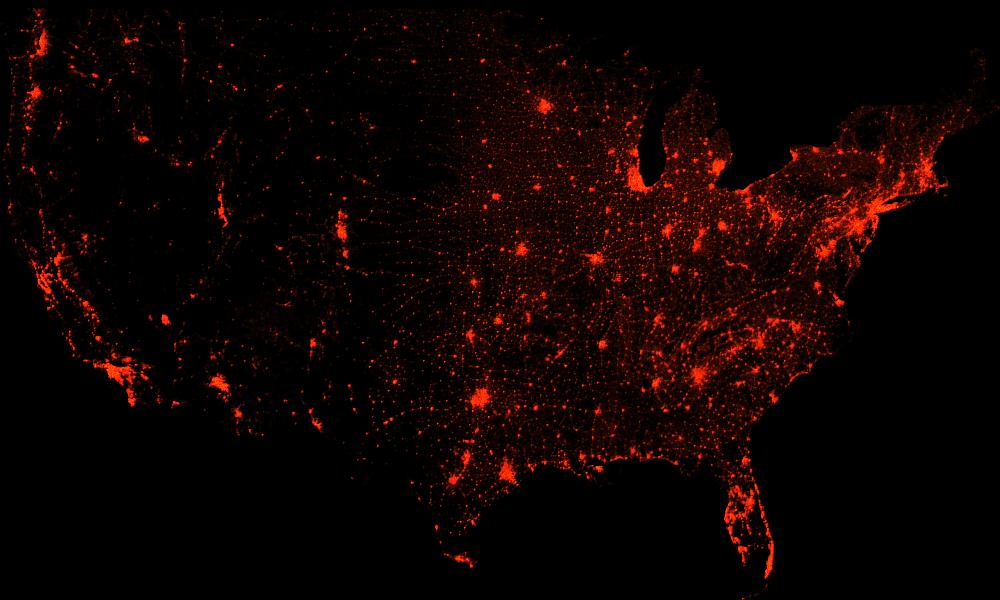
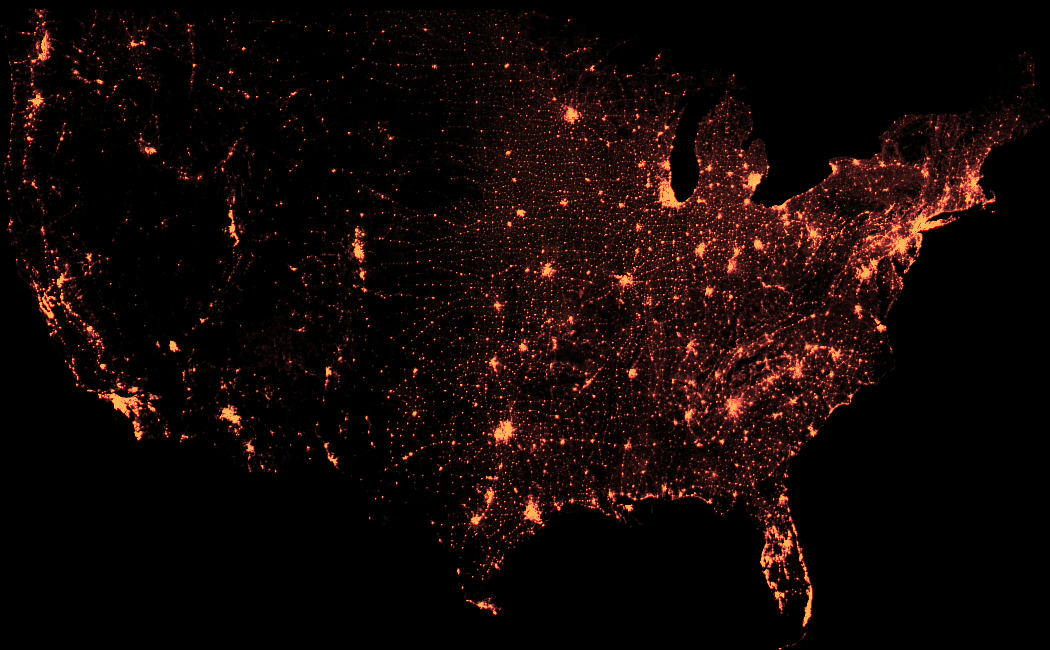
feat: added padding parameter; additional work

diff --git a/pkg/grid/cells.go b/pkg/grid/cells.go
@@ -1,6 +1,7 @@
 package grid
 
 import (
+	"fmt"
 	"math"
 	"sync"
 	"sync/atomic"
@@ -74,12 +75,12 @@ func (c *CellArray[T]) Condense(hasher Hasher, reducer Coalescer[T]) {
 	wg := sync.WaitGroup{}
 	newLen := uint64(0)
 	cellMap := sync.Map{}
-	cellMapReduce := func(k uint64, v T) {
+	cellMapReduce := func(k uint64, v T, r Coalescer[T]) {
 		defer wg.Done()
 		if value, ok := cellMap.Load(k); ok {
-			cellMap.Store(k, reducer.Coaelesce(value.(T), v))
+			cellMap.Store(k, r.Coalesce(value.(T), v))
 		} else {
-			cellMap.Store(k, reducer.Coaelesce(T(0), v))
+			cellMap.Store(k, r.Coalesce(T(0), v))
 			atomic.AddUint64(&newLen, 1)
 		}
 	}
@@ -88,20 +89,20 @@ func (c *CellArray[T]) Condense(hasher Hasher, reducer Coalescer[T]) {
 	wg.Add(int(c.Len()))
 	for _, cell := range c.cells {
 		key := hasher.Hash(cell.column, cell.row)
-		go cellMapReduce(key, cell.value)
+		go cellMapReduce(key, cell.value, reducer)
 	}
 	wg.Wait()
 
 	// Rematerialize cells into new array with length <= original array
 	newCells := make([]Cell[T], 0, newLen)
-	cellMap.Range(func(k any, value any) bool {
-		column, row := hasher.Unhash(k.(uint64))
-		newCells = append(newCells, Cell[T]{value.(T), column, row})
+	cellMap.Range(func(key any, value any) bool {
+		column, row := hasher.Unhash(key.(uint64))
+		cell := Cell[T]{value.(T), column, row}
+		newCells = append(newCells, cell)
 		return true
 	})
 }
 
-// TODO
 func (c *CellArray[T]) Summarise() *CellSummary[T] {
 	if c.summary == nil {
 		switch any(c.cells[0].value).(type) {
@@ -128,6 +129,7 @@ func (c *CellArray[T]) Summarise() *CellSummary[T] {
 		avg = avg / T(len(c.cells))
 
 		c.summary = &CellSummary[T]{max, min, avg}
+		fmt.Printf("Created grid summary: {Max: %v, Min: %v, Avg: %v}", c.summary.Max, c.summary.Min, c.summary.Avg)
 	}
 
 	return c.summary

diff --git a/pkg/config/config.go b/pkg/config/config.go
@@ -7,14 +7,15 @@ import (
 )
 
 type RaptureConfig struct {
-	Path   string `flag:"input" usage:"input file" alias:"i"`
-	Output string `flag:"output" usage:"output file path (.png)" alias:"o"`
-	Stat   string `flag:"stat" usage:"function for displaying values, can be of one: density, mean" default:"density" alias:"s"`
-	Prop   string `flag:"property" usage:"property to use from input" alias:"p"`
-	Width  uint   `flag:"width" usage:"width of output" default:"800" alias:"w"`
-	Height uint   `flag:"height" usage:"height of output" default:"800" alias:"h"`
-	Bbox   string `flag:"bbox" usage:"string delimited bounding box in order: xmax, xmin, ymax, ymin" alias:"b"`
-	Prof   string `flag:"prof" usage:"write cpu profile to file"`
+	Path    string `flag:"input" usage:"input file" alias:"i"`
+	Output  string `flag:"output" usage:"output file path (.png)" alias:"o"`
+	Stat    string `flag:"stat" usage:"function for displaying values, can be of one: density, mean" default:"density" alias:"s"`
+	Prop    string `flag:"property" usage:"property to use from input" alias:"p"`
+	Width   uint   `flag:"width" usage:"width of output" default:"800" alias:"w"`
+	Height  uint   `flag:"height" usage:"height of output" default:"800" alias:"h"`
+	Padding uint   `flag:"padding" usage:"padding around main image" alias:"pad"`
+	Bbox    string `flag:"bbox" usage:"string delimited bounding box in order: xmax, xmin, ymax, ymin" alias:"b"`
+	Prof    string `flag:"prof" usage:"write cpu profile to file"`
 }
 
 // Sets up flag calls to struct fields based on struct tags/type

diff --git a/pkg/grid/grid.go b/pkg/grid/grid.go
@@ -7,19 +7,49 @@ import (
 )
 
 type Grid[T cell_t] struct {
-	cells *CellArray[T]
-	xAxis *Axis[float64]
-	yAxis *Axis[float64]
+	cells  *CellArray[T]
+	xAxis  *Axis[float64]
+	yAxis  *Axis[float64]
+	cAxis  *Axis[T]
+	clsc   Coalescer[T]
+	hasher Hasher
 }
 
 func NewGrid[T cell_t](xAxis *Axis[float64], yAxis *Axis[float64], points uint) *Grid[T] {
-	return &Grid[T]{NewCellArray[T](points), xAxis, yAxis}
+	grd := &Grid[T]{NewCellArray[T](points), xAxis, yAxis, nil, nil, nil}
+	h := &SimpleHasher{}
+	return grd.WithHasher(h)
 }
 
 func NewGridFromBound[T cell_t](b *orb.Bound, width uint, height uint, n uint) *Grid[T] {
 	xax := NewAxis(b.Min.X(), b.Max.X(), width)
 	yax := NewAxis(b.Min.Y(), b.Max.Y(), height)
 	return NewGrid[T](xax, yax, n)
+}
+
+func (grd *Grid[T]) WithCoalescer(clsc Coalescer[T]) *Grid[T] {
+	grd.clsc = clsc
+	return grd
+}
+
+func (grd *Grid[T]) WithHasher(hasher Hasher) *Grid[T] {
+	grd.hasher = hasher
+	return grd
+}
+
+func (grd *Grid[T]) Condense() *Grid[T] {
+	grd.cells.Condense(grd.hasher, grd.clsc)
+	return grd
+}
+
+func (grd *Grid[T]) Summarise() *Grid[T] {
+	grd.cells.Summarise()
+	grd.cAxis = NewAxis(
+		grd.cells.summary.Min,
+		grd.cells.summary.Max,
+		10,
+	)
+	return grd
 }
 
 func (grd *Grid[T]) Bounds() *orb.Bound {
@@ -29,6 +59,10 @@ func (grd *Grid[T]) Bounds() *orb.Bound {
 		Max: orb.Point{xmax, ymax},
 		Min: orb.Point{xmin, ymin},
 	}
+}
+
+func (grd *Grid[T]) ColorAxis() *Axis[T] {
+	return grd.cAxis
 }
 
 func (grd *Grid[T]) Width() uint {

diff --git a/pkg/grid/grid_map.go b/pkg/grid/grid_map.go
@@ -3,14 +3,12 @@ package grid
 import (
 	"rapture/pkg/geometry"
 	"sync"
-	"sync/atomic"
 
 	"github.com/paulmach/orb"
 	"github.com/paulmach/orb/geojson"
 )
 
-func (grd *Grid[T]) MapFeatures(f *geometry.FeatureCollection, property string) (uint64, error) {
-	mapped := uint64(0)
+func (grd *Grid[T]) WithFeatures(f *geometry.FeatureCollection, property string) *Grid[T] {
 	wg := &sync.WaitGroup{}
 	mapToGrid := func(feature *geometry.Feature) {
 		defer wg.Done()
@@ -20,7 +18,6 @@ func (grd *Grid[T]) MapFeatures(f *geometry.FeatureCollection, property string) 
 		case geojson.TypePoint:
 			pt := (*feature.Geometry).(orb.Point)
 			grd.AddPoint(&pt, value)
-			atomic.AddUint64(&mapped, 1)
 		case geojson.TypeLineString:
 			panic("not implemented")
 		default:
@@ -28,13 +25,14 @@ func (grd *Grid[T]) MapFeatures(f *geometry.FeatureCollection, property string) 
 		}
 	}
 
+	// process
 	for _, v := range f.Features {
 		wg.Add(1)
 		go mapToGrid(v)
 	}
-
 	wg.Wait()
-	return mapped, nil
+
+	return grd
 }
 
 func getProp[T cell_t](p *geojson.Properties, key string) (property T) {

diff --git a/cli/cli.go b/cli/cli.go
@@ -15,20 +15,13 @@ func Run(cfg config.RaptureConfig) {
 		panic(err)
 	}
 
-	// Create grid
-	fmt.Println("Creating grid...")
-	grd := grid.NewGridFromBound[float64](features.Extent, cfg.Width, cfg.Height, uint(len(features.Features)))
+	nfeatures := uint(len(features.Features))
 
-	// Add Points
-	fmt.Println("Adding points...")
-	n, err := grd.MapFeatures(features, "POPULATION_2020")
-	if err != nil {
-		panic(err)
-	}
-	fmt.Printf("Added %d points\n", n)
-
-	// fmt.Println("Condensing values")
-	// summary := grd.Cells().Condense(canvas.Density, nil)
-
-	grd.Render(cfg.Output)
+	fmt.Printf("Creating grid with %d features...\n", nfeatures)
+	grid.
+		NewGridFromBound[float64](features.Extent, cfg.Width+cfg.Padding, cfg.Height+cfg.Padding, nfeatures).
+		WithCoalescer(grid.Accumulator[float64]{}).
+		WithFeatures(features, cfg.Prop).
+		Summarise().
+		Render(cfg.Output)
 }

diff --git a/pkg/grid/grid_render.go b/pkg/grid/grid_render.go
@@ -12,11 +12,13 @@ func (grd *Grid[T]) Render(output string) {
 	ctx := gg.NewContext(int(grd.Width()), int(grd.Height()))
 	ctx.SetColor(color.Black)
 	ctx.Clear()
-	pal := colorgrad.OrRd().ColorfulColors(100)
+
+	nc := grd.cAxis.Dim()
+	pal := colorgrad.OrRd().ColorfulColors(nc)
 	fmt.Printf("Mapping %d cells\n", grd.NumFilledCells())
-	for i, cell := range grd.cells.cells {
+	for _, cell := range grd.cells.cells {
 		ctx.Push()
-		ctx.SetColor(pal[i%100])
+		ctx.SetColor(pal[grd.cAxis.Index(cell.value, false)])
 		ctx.DrawPoint(float64(cell.column), float64(cell.row), 0.075)
 		ctx.Fill()
 		ctx.Pop()

diff --git a/pkg/grid/coalescer.go b/pkg/grid/coalescer.go
@@ -1,3 +1,9 @@
 package grid
 
-type Coalescer[T cell_t] interface{ Coaelesce(T, T) T }
+type Coalescer[T cell_t] interface{ Coalesce(T, T) T }
+
+type Accumulator[T numeric_t] struct{}
+
+func (acc Accumulator[T]) Coalesce(a T, b T) T {
+	return a + b
+}
